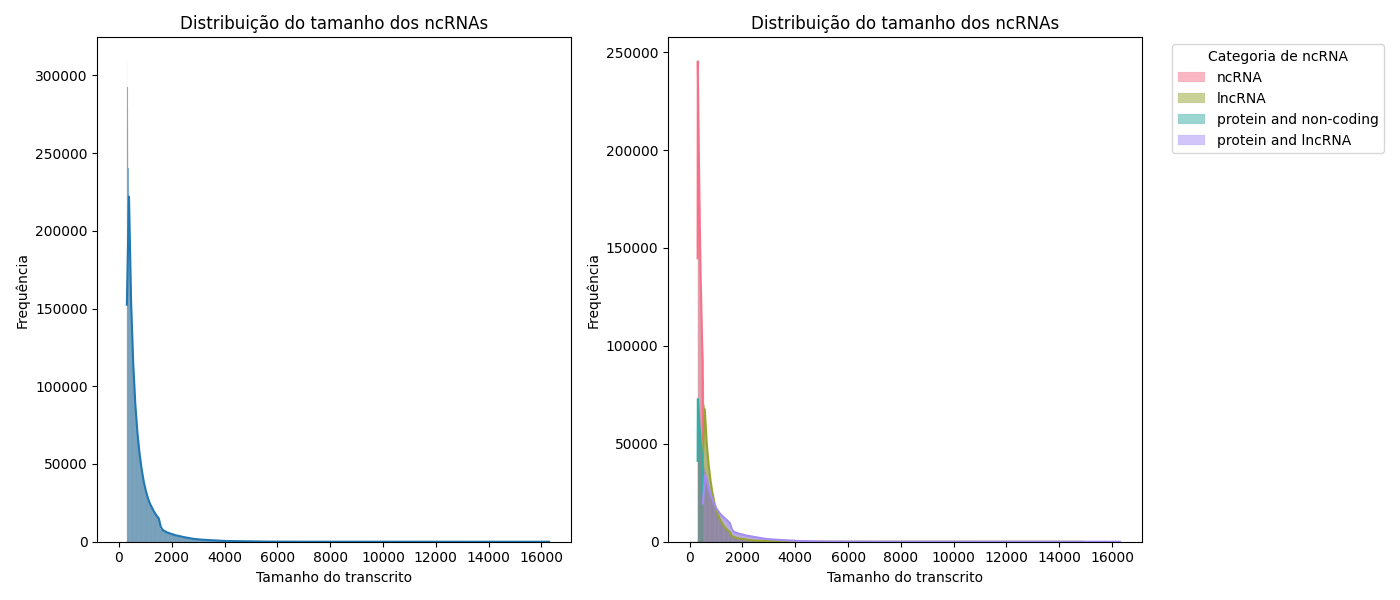
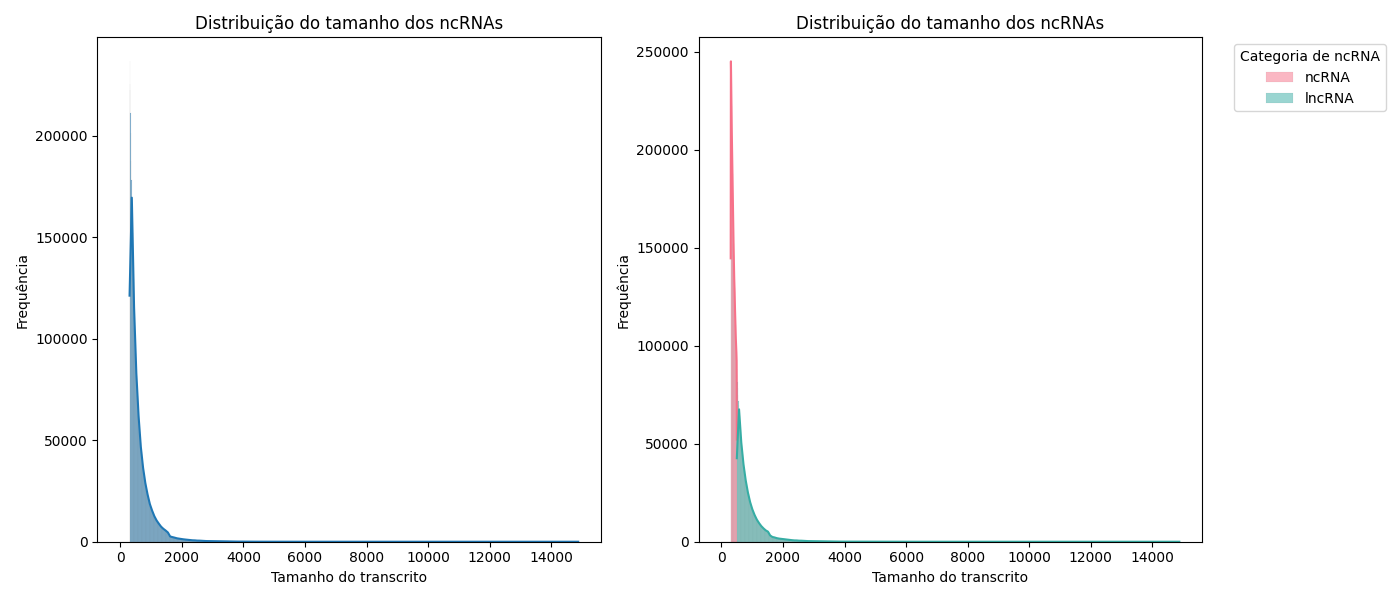
update plots

diff --git a/scripts/panRNAome/updatencRNAsGeneFunction.py b/scripts/panRNAome/updatencRNAsGeneFunction.py
@@ -1,0 +1,46 @@
+#!/usr/bin/env python
+
+import pandas as pd
+import numpy as np
+
+input_file = 'updated_panRNAome_Length.tsv'
+df = pd.read_csv(input_file, sep='\t', header=None)
+
+df.columns = ['panRNAome_category', 'gene_name', 'transcript_name', 'gene_function', 'transcript_length', 'transcript_function']
+
+# Ordem de precedência das funções
+function_precedence = {
+    'protein and non-coding': 1,
+    #'protein and lncRNA': 2,
+    #'protein-coding': 3,
+    'ncRNA': 2,
+    'lncRNA': 3
+}
+
+# Função para determinar a função do gene com base nos transcritos
+def determine_gene_function(transcript_functions):
+    # Filtra valores não nulos
+    valid_functions = set(transcript_functions.dropna())
+    
+    # Verifica se há transcritos "protein-coding" e "ncRNA"
+    if 'protein-coding' in valid_functions and 'ncRNA' in valid_functions:
+        return 'protein and non-coding'
+    
+    # Ordena as funções de acordo com a precedência
+    sorted_functions = sorted(valid_functions, key=lambda x: function_precedence.get(x, float('inf')))
+    return sorted_functions[0] if sorted_functions else np.nan  # Retorna a função de maior precedência ou NA se estiver vazio
+
+# Agrupamento por gene e determinação da função do gene
+gene_functions = df.groupby('gene_name')['transcript_function'].apply(determine_gene_function).reset_index()
+gene_functions.columns = ['gene_name', 'updated_gene_function']
+
+# Atualização da coluna de função do gene no dataframe original
+df = df.merge(gene_functions, on='gene_name', how='left')
+df['gene_function'] = df['updated_gene_function']
+df.drop(columns=['updated_gene_function'], inplace=True)
+
+# Convertendo transcript_length para inteiro (removendo ".0" se for inteiro)
+df['transcript_length'] = df['transcript_length'].astype('Int64')  # Utiliza tipo Int64 para manter NA e inteiros
+
+output_file = 'updated_panRNAome_GeneFunction_Length.tsv'
+df.to_csv(output_file, sep='\t', header=False, index=False, na_rep='NA')
